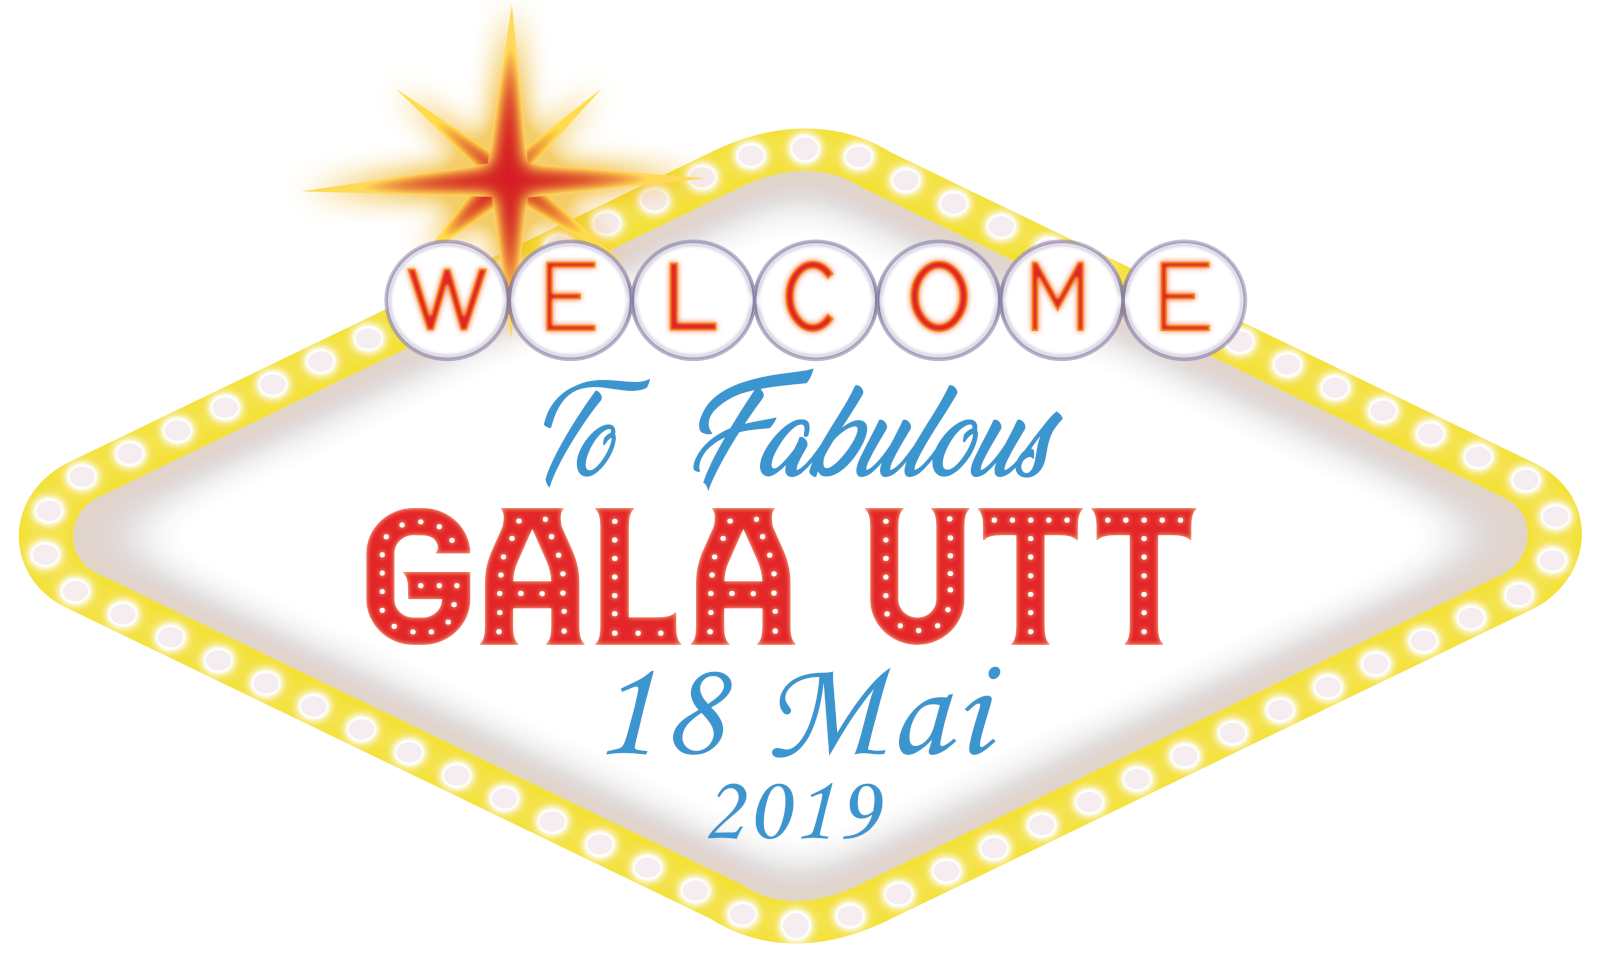
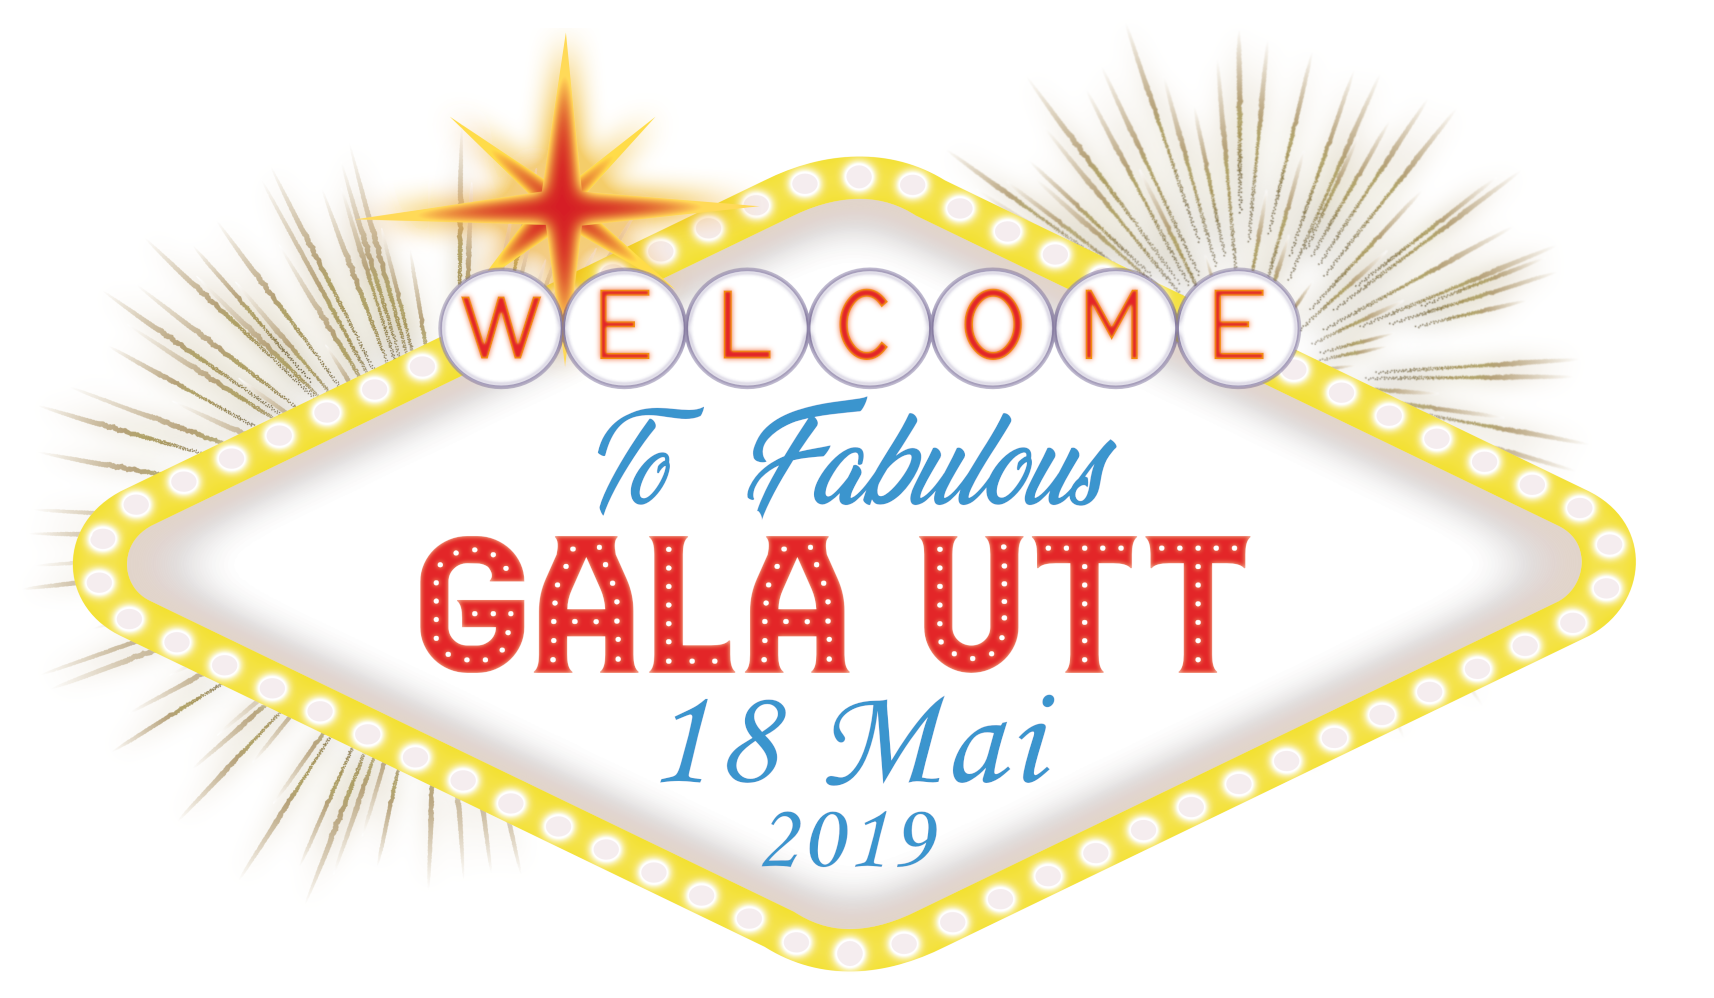
Add fireworks to poster image

Changed region(s): [[0.0, 0.0, 1.0, 0.9897], [0.0625, 0.7113, 0.0938, 0.7423]]

diff --git a/src/containers/home/index.jsx b/src/containers/home/index.jsx
@@ -102,11 +102,7 @@ class Home extends React.Component {
 		return (
 			<div id="home">
 				<div className="poster-container">
-					<img
-						src={posterImg}
-						alt=""
-						className="poster"
-					/>
+					<img src={posterImg} alt="" className="poster" />
 
 					<div className={'arrow-icon' + (this.state.top ? ' active' : '')}>
 						<i className="fas fa-arrow-down icon"></i>
